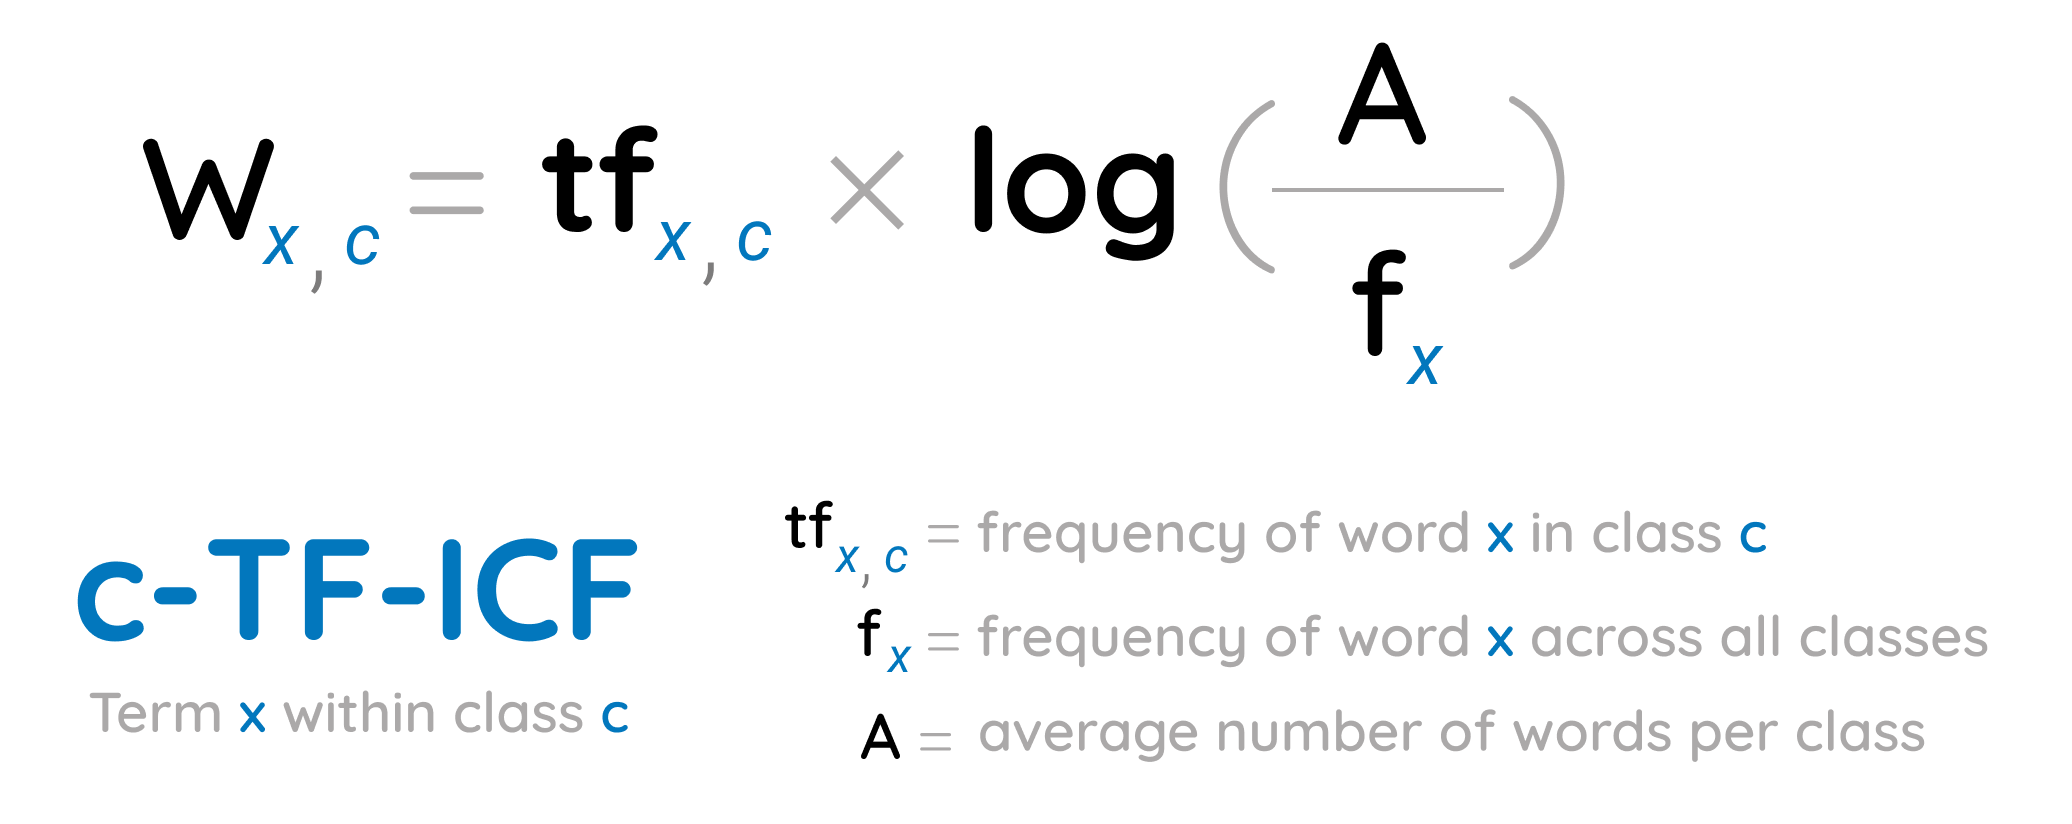
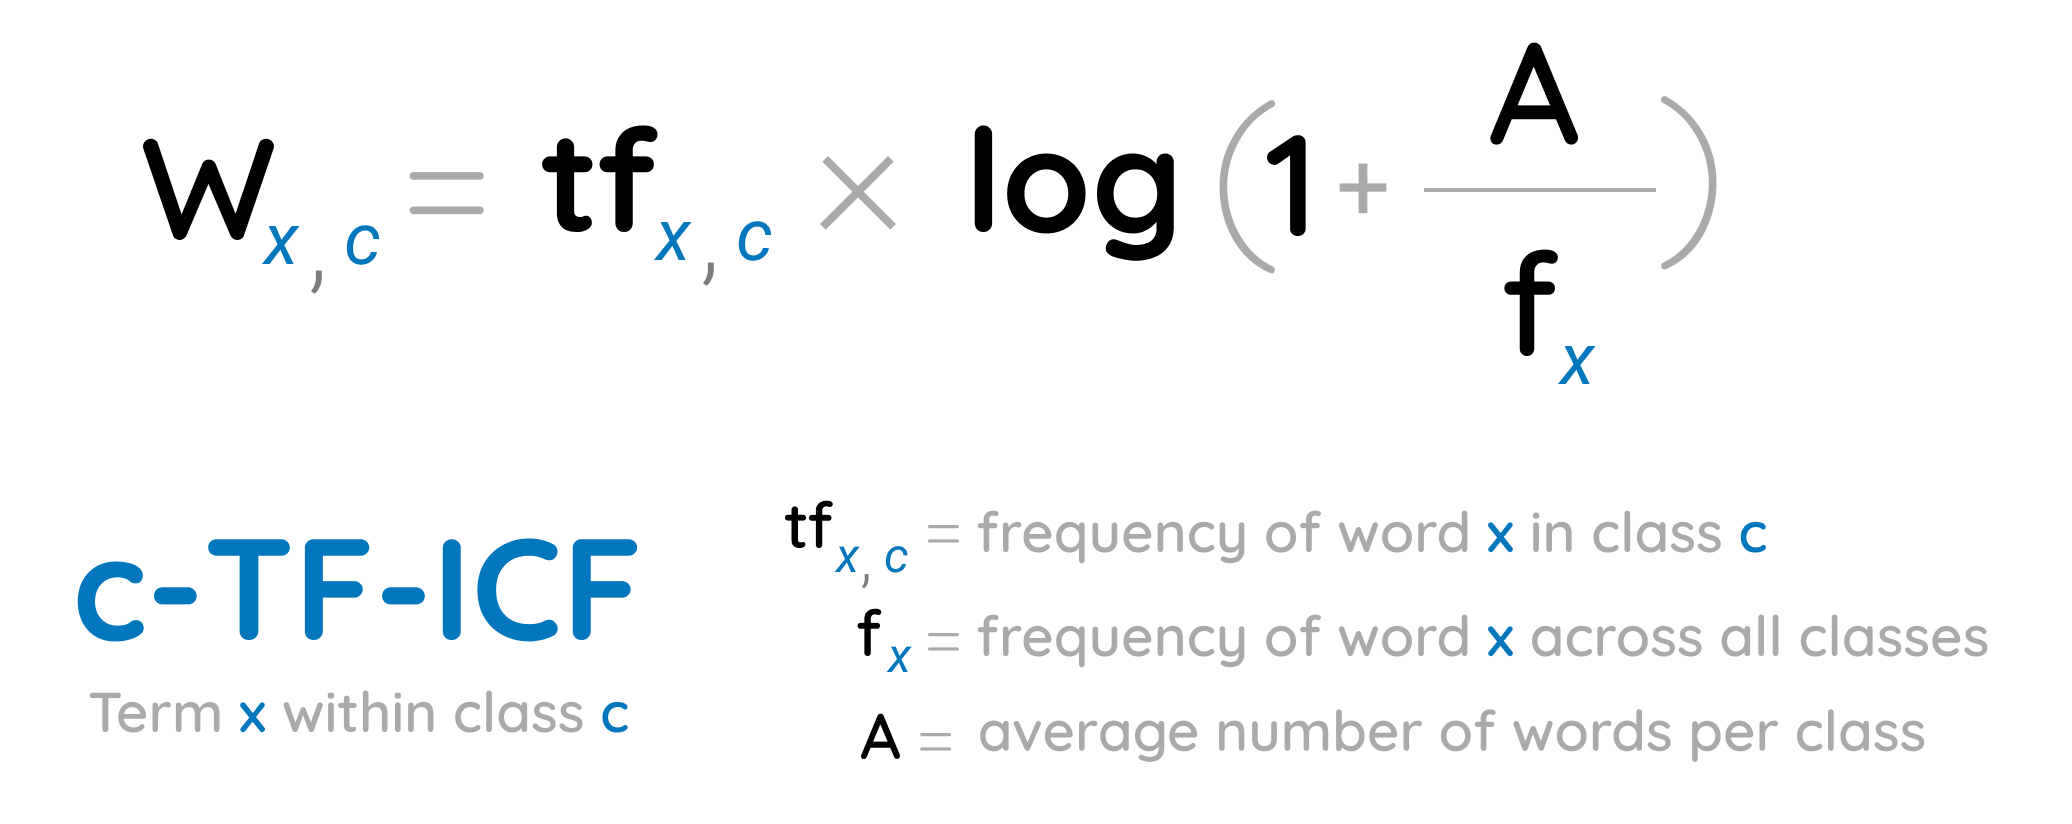
Update cTFIDF documentation

diff --git a/docs/algorithm/algorithm.md b/docs/algorithm/algorithm.md
@@ -54,8 +54,9 @@ Each cluster is converted to a single document instead of a set of documents. Th
 of word `x` in class `c`, where `c` refers to the cluster we created before. This results in our class-based 
  `tf` representation. 
 
-Then, we take take the logarithm of the average number of words per class `A` divided by the frequency 
-of word `x` across all classes. This results in our class-based `idf` representation. 
+Then, we take take the logarithm of one plus the average number of words per class `A` divided by the frequency 
+of word `x` across all classes. We add plus one within the logarithm to force values to be positive. 
+This results in our class-based `idf` representation. 
 
 Like with the classic TF-IDF, we then multiply `tf` with `idf` to get the importance score per word in each class. 
 
